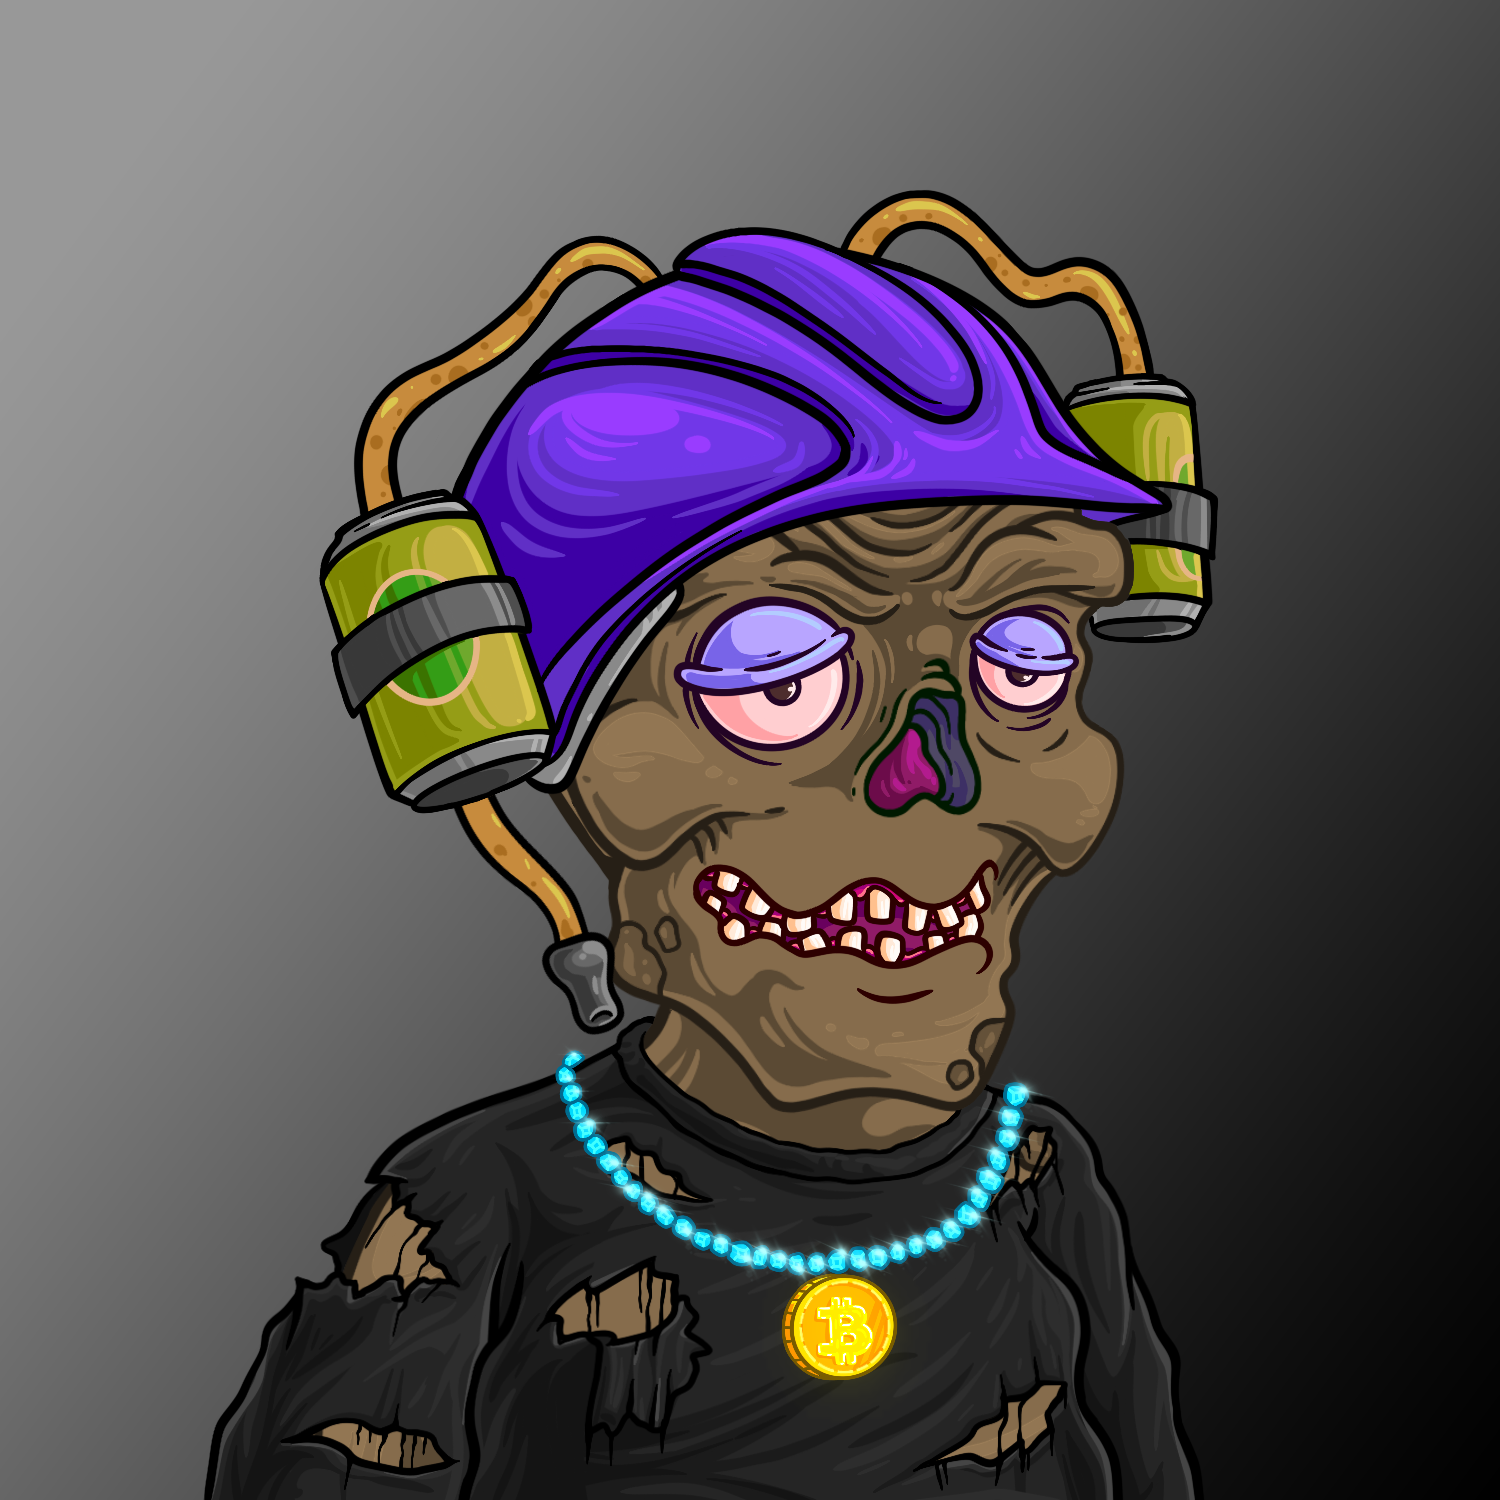
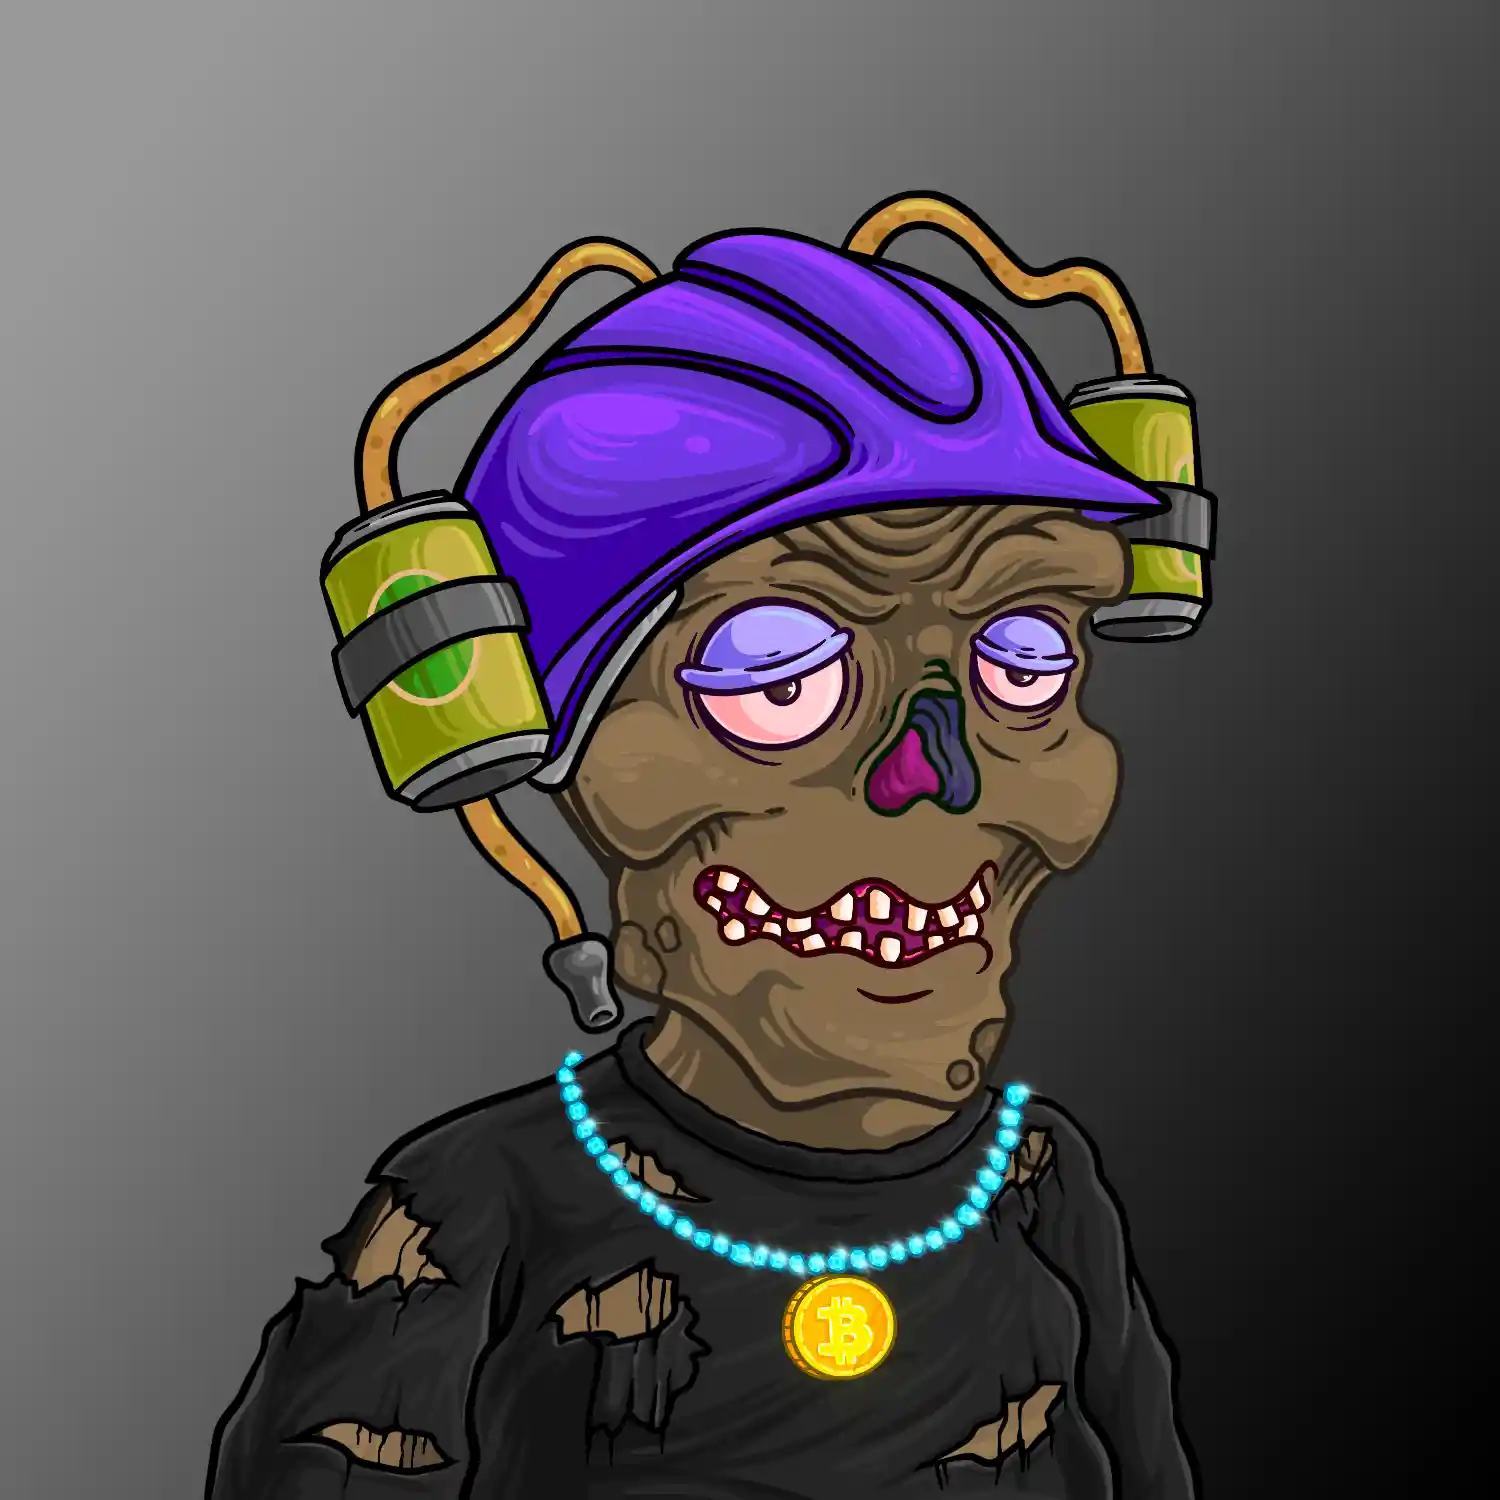
updated dspyt evmexplorer page and created new profile for pinsave

diff --git a/dspyt/components/siteMetadata.js b/dspyt/components/siteMetadata.js
@@ -7,11 +7,11 @@ export const siteMetadata = {
     "Data Science with Python and blockchain DAO. We cover econometrics, python programming, blockchain technology and many more topics",
   theme: "system", // system, dark or light
   ogType: "website",
-  ogImageUrl: "https://dspyt.com/DSPYT.png",
+  ogImageUrl: "https://dspyt.com/DSPYT.webp",
   siteUrl: "https://dspyt.com",
   siteRepo: "https://github.com/dspytdao/dspyt-homepage/tree/main/dspyt",
-  siteLogo: "/DSPYT.png",
-  socialBanner: "/DSPYT.png",
+  siteLogo: "/DSPYT.webp",
+  socialBanner: "/DSPYT.webp",
   github: "https://github.com/dspytdao",
   twitter: "@dspytdao",
   twitterCreator: "@dspytdao",

diff --git a/dspyt/authors/dspytdao.md b/dspyt/authors/dspytdao.md
@@ -1,8 +1,8 @@
 ---
 name: "dspytdao"
-avatar: "/authors/DspytWhiteOnBlue.png"
-smallAvatar: "/authors/DspytWhiteOnBlue.png"
-company: "Dspyt"
+avatar: "/authors/DspytWhiteOnBlue.webp"
+smallAvatar: "/authors/DspytWhiteOnBlue.webp"
+company: "Dspyt Inc."
 email: "dspytdao@gmail.com"
 twitter: "https://twitter.com/dspytdao"
 linkedin: "https://www.linkedin.com/company/dspytdao/"
@@ -16,12 +16,12 @@ Our primary focus is on empowering developers and enthusiasts in the Blockchain,
 
 Our mission involves the following key areas:
 
-1. Community Building: At DspytDAO, we believe in fostering a welcoming, inclusive, and collaborative environment aimed at nurturing both established and emerging talents in the Web3 space. We engage in various community-based initiatives, events, and discussions that encourage learning, sharing ideas, and networking across different expertise levels.
+1. **Community Building**: At DspytDAO, we believe in fostering a welcoming, inclusive, and collaborative environment aimed at nurturing both established and emerging talents in the Web3 space. We engage in various community-based initiatives, events, and discussions that encourage learning, sharing ideas, and networking across different expertise levels.
 
-2. Educational Resources: A crucial aspect of our organization is the development and dissemination of educational materials focused on Blockchain, Python, JavaScript, and Next.js technologies. By creating accessible content such as YouTube tutorials, newsletters, blog posts, and podcasts, we aim to support the continuous growth and development of the Web3 community.
+2. **Educational Resources**: A crucial aspect of our organization is the development and dissemination of educational materials focused on Blockchain, Python, JavaScript, and Next.js technologies. By creating accessible content such as YouTube tutorials, newsletters, blog posts, and podcasts, we aim to support the continuous growth and development of the Web3 community.
 
-3. Project Support and Mentorship: Our experienced team of developers and industry experts offer valuable guidance and support to open-source project contributors. Through this mentorship, DspytDAO ensures that projects are developed with optimized code quality, user-friendliness, and security measures, leading to more significant contributions to the Web3 space.
+3. **Project Support and Mentorship**: Our experienced team of developers and industry experts offer valuable guidance and support to open-source project contributors. Through this mentorship, DspytDAO ensures that projects are developed with optimized code quality, user-friendliness, and security measures, leading to more significant contributions to the Web3 space.
 
-4. Encouraging Diversity and Inclusion: DspytDAO acknowledges the importance of creating opportunities for diverse perspectives and experiences across the Web3 community. We actively work towards advocating for increased representation and inclusivity in the tech ecosystem, thereby fostering a more innovative and equitable landscape for all.
+4. **Encouraging Diversity and Inclusion**: DspytDAO acknowledges the importance of creating opportunities for diverse perspectives and experiences across the Web3 community. We actively work towards advocating for increased representation and inclusivity in the tech ecosystem, thereby fostering a more innovative and equitable landscape for all.
 
 Our proven track record and dedication to long-term goals make us an ideal candidate for receiving support as we strive to advance the decentralized era of technology.

diff --git a/dspyt/authors/pinsave.md b/dspyt/authors/pinsave.md
@@ -1,0 +1,24 @@
+---
+name: "PinSave"
+avatar: "/authors/pinsave.webp"
+smallAvatar: "/authors/pinsave.webp"
+company: "Dspyt Inc."
+twitter: "https://twitter.com/pinsav3"
+linkedin: "https://www.linkedin.com/company/pinsave/"
+github: "https://github.com/pinsavedao"
+title: "PinSave - DspytDAO profile"
+description: "PinSave is a decentralized platform that addresses the issue of centralized control over user content by empowering users with ownership and control over their content."
+---
+
+PinSave focuses on developing a decentralized content aggregation and image sharing platform where users have ownership of their content, aiming to address the issue of current monolithic web applications retaining ownership of user content and hindering the adoption of decentralized technology.
+We believe that empowering users to control not only the content but also the platform itself is essential to promote decentralization and user autonomy in content sharing.
+PinSave envisions solving the obstacle of limited content visibility, the complexity in web 3.0 maintenance, and the lack of alternative decentralized content-sharing platforms present in the ecosystem.
+It is important to provide users with the capability to create, share, moderate, and discuss decentralized posts securely and openly.
+The use of technologies such as JavaScript, NextJS, React, and blockchain networks demonstrates the project's commitment to creating an efficient and decentralized image-sharing platform.
+
+## Target User
+
+The target users of PinSave are individuals who prioritize ownership and control over their content, value privacy, and are enthusiasts of decentralized technology.
+They are users who seek a platform where they can securely create, share, and engage with content in a decentralized manner while maintaining ownership and control over their data.
+These users are likely interested in exploring alternative platforms that promote decentralization, user autonomy, and transparency in content sharing.
+The target users may include content creators, privacy-conscious individuals, blockchain enthusiasts, and users looking for a community-owned and decentralized content-sharing experience.

diff --git a/dspyt/posts/evmexplorer.md b/dspyt/posts/evmexplorer.md
@@ -81,6 +81,7 @@ In addition, for smart contracts aggregate data should also be available:
 - Number of Token Transfers
 - Average Gas per Transactions
 - Gas Usage
+- Number of Validations
 
 For example, [Optimism (OP) governance token page](https://evmexplorer.com/contracts/optimism/0x4200000000000000000000000000000000000042):
 
@@ -89,6 +90,8 @@ For example, [Optimism (OP) governance token page](https://evmexplorer.com/contr
 [Arbitrum (ARB) governance token page](https://evmexplorer.com/contracts/arbitrum/0x912ce59144191c1204e64559fe8253a0e49e6548):
 
 ![Arbitrum Token Data](images/posts/evmexplorer/blockspage.webp)
+
+For Number of Validations examples, please, have a look at [Lido Execution Layer Rewards Vault](https://evmexplorer.com/contracts/mainnet/0x388C818CA8B9251b393131C08a736A67ccB19297).
 
 ## Transaction page
 
@@ -154,3 +157,5 @@ Dive into the world of EVM data with EVM Explorer and make your blockchain explo
 
 - [Delegate Arbitrum Tokens to Dspyt Team](https://www.tally.xyz/profile/0x4c11ba2ed1d936d769d0cce34cbc7ea1e85182d0)
 - [EVM Explorer](https://evmexplorer.com/)
+- [Optimism Curia Governance Dashboard](https://optimism.curiahub.xyz/)
+- [Optimism Agora](https://vote.optimism.io/)

diff --git a/dspyt/authors/middlemarch.md b/dspyt/authors/middlemarch.md
@@ -6,7 +6,7 @@ company: "Facet, Ethscriptions, Capsule 21, Genius"
 twitter: "https://twitter.com/dumbnamenumbers"
 github: "https://github.com/0xFacet/facet-vm"
 title: "Middlemarch.eth - Dspyt DAO profile"
-description: "Facet co-founder, Ethscriptions co-founder, Capsule 21 co-founder, Genius.com co-founder & former CEO"
+description: "Facet co-founder, Ethscriptions co-founder, Capsule 21 co-founder, Genius.com co-founder & former CEO."
 ---
 
 ## About me
